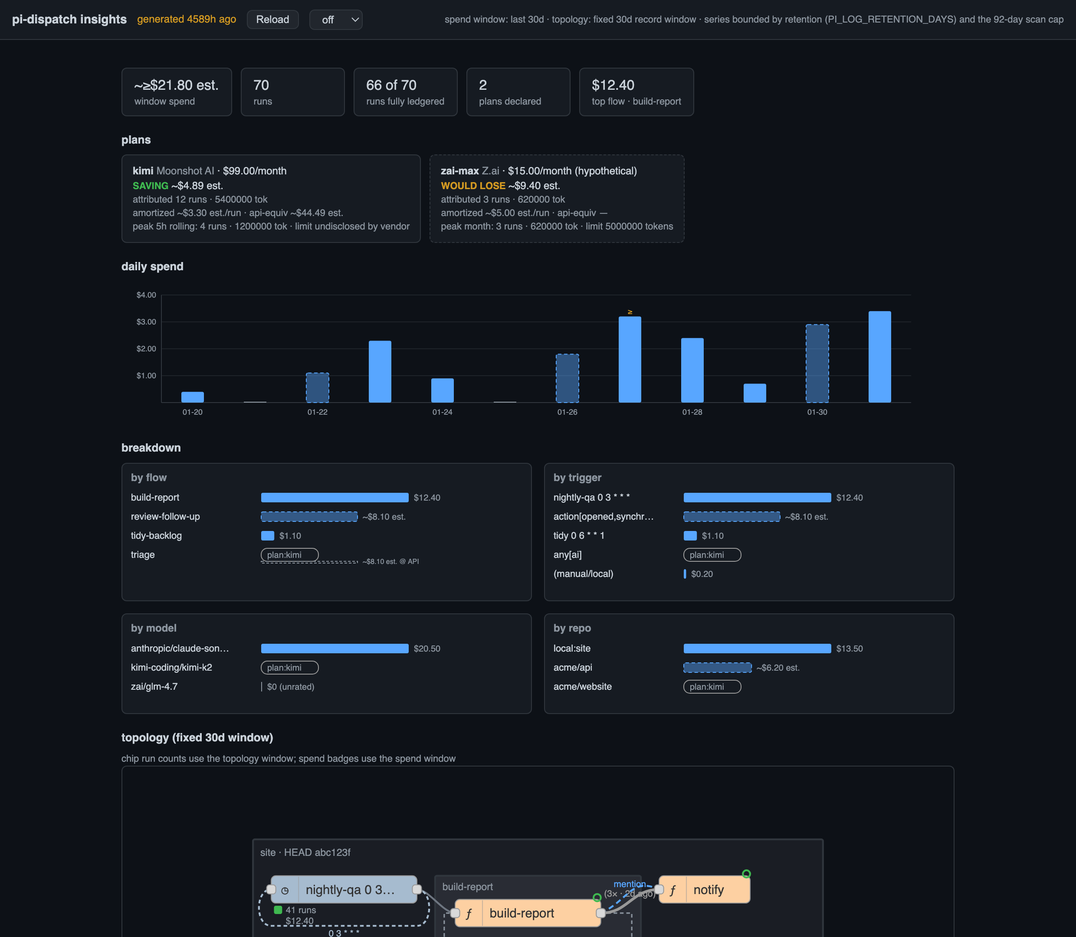
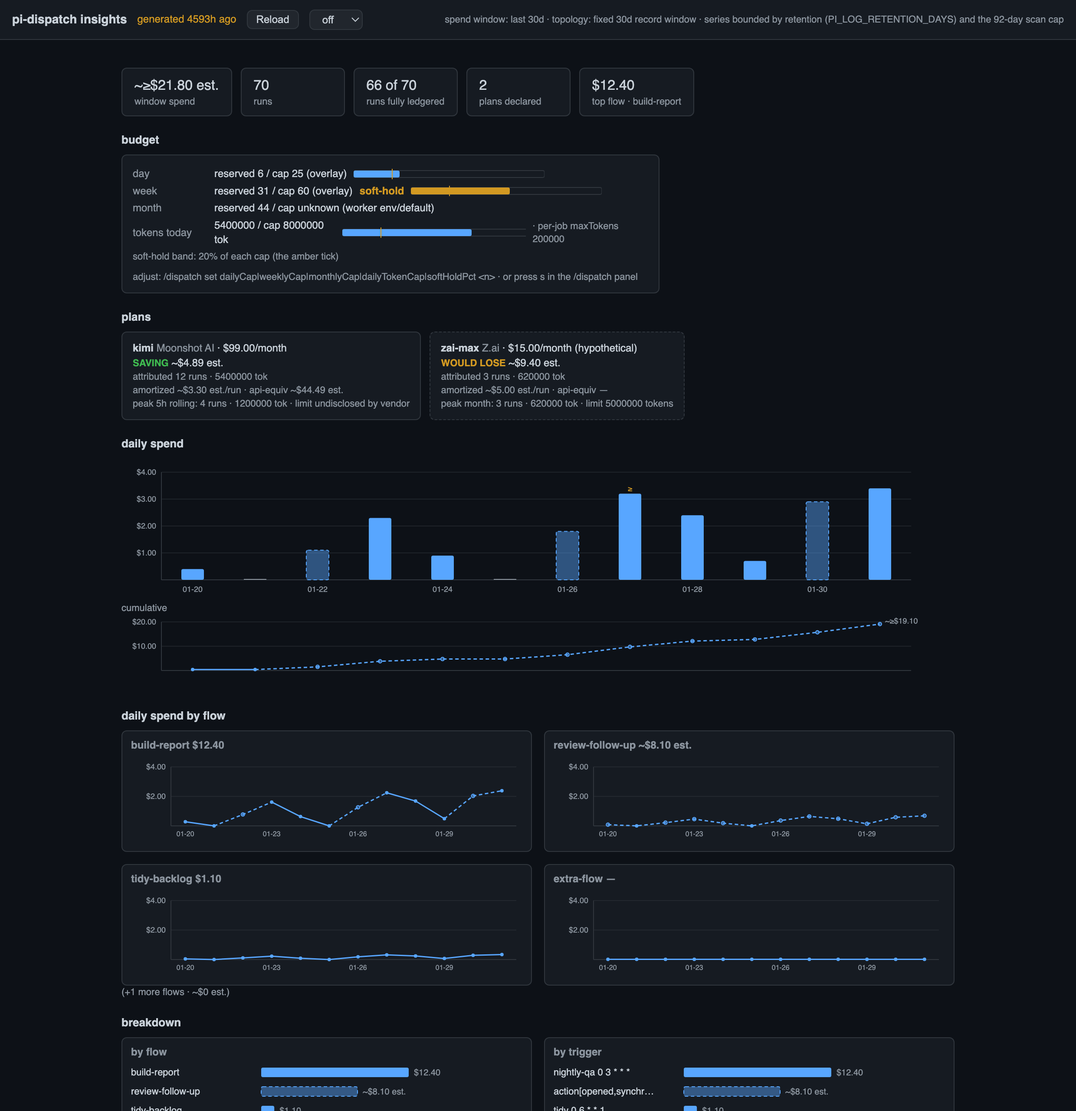
docs: one analytics story, and the images catch up with the consolidated surface (issue #181)
The last slice of #181: every doc and both READMEs now describe the
one analytics surface.

- docs/costs.md and docs/graph.md lose their view/command sections and
  survive as the semantics references behind what the insights page
  draws; docs/insights.md speaks the bare grammar, gains the budget
  and trend-line reading bullets, and points the what-if at
  insights whatif; demo.md's shot list gains the i beat and the exact
  new footer; workflows.md and launch-kit.md updated.
- README.md: the intro bullet, the when-to-use paragraph (bare
  /dispatch insights, budget dials named as the one real lever), the
  admin-panel section rewritten around the i key and the page, the
  command list, and the usage-ledger sentence. admin/README.md: the
  three analytics bullets merge into one insights story. Dash rule
  holds in both.
- Images: costs-view.svg/png DELETED (the view is gone);
  dispatch-dashboard.svg's footer line rewritten to the shipped
  footer (i insights; row width preserved at 80 chars inside borders)
  and its PNG re-rendered at the exact prior 1803x1811;
  insights-view.png regenerated from the page WITH the budget panel,
  cumulative line and flow multiples; graph-view.png kept byte-
  unchanged as the topology close-up. Changed references bump to
  ?v=0.12.0.

Specs UNCHANGED, checked: this slice states what the code slices
shipped and changes no behaviour.

Suite green in the CI posture: 2192 tests, 0 skipped, live Valkey.

diff --git a/README.md b/README.md
@@ -13,9 +13,7 @@ did and what it spent, and shuts the container down. A durable queue absorbs bur
 checked before a single token is spent, and a live admin panel shows everything and can turn the whole
 thing off.
 
-![The /dispatch dashboard overlay, theme-colored: live queue state, day/week/month spend meters plus a daily token counter, the unified triggers pane (cron, label, comment, pull_request; selectable and editable), scheduled pause windows, and the interactive runs list, in one framed TUI](docs/images/dispatch-dashboard.svg?v=0.5.0)
-
-![The COSTS view, verdict-first cost analytics: per-plan SAVING/LOSING verdicts against API rates, a daily spend sparkline, per-flow, per-trigger, per-model and per-repo spend, subscription amortization with peak-window facts, and a what-if that re-prices a flow under another model, every estimate visibly marked](docs/images/costs-view.svg?v=0.11.0)
+![The /dispatch dashboard overlay, theme-colored: live queue state, day/week/month spend meters plus a daily token counter, the unified triggers pane (cron, label, comment, pull_request; selectable and editable), scheduled pause windows, and the interactive runs list, in one framed TUI](docs/images/dispatch-dashboard.svg?v=0.12.0)
 
 ![Transcript of /dispatch status, runs, and triggers: queue counts, the run-history table with per-job token and cost accounting, and the unified {on,run} triggers list](docs/images/dispatch-commands.svg?v=0.5.0)
 
@@ -25,9 +23,9 @@ README, no permission system. pi-dispatch is exactly that missing operational la
 - **The container is the boundary.** Every job runs `--cap-drop=ALL`, non-root, ephemeral, with its
   instructions mounted read-only. That is pi's missing permission system, enforced by Docker.
 - **Spend is bounded before a container starts**: a per-job turn budget plus daily, weekly and monthly
-  caps, checked before a single token is spent. And analyzed after: the panel's COSTS view shows spend
-  per flow, trigger, model, day and repo, what a subscription actually saves, and what a flow would
-  cost on another model ([`docs/costs.md`](docs/costs.md)).
+  caps, checked before a single token is spent. And analyzed after: the insights page shows spend
+  per flow, trigger, model, day and repo, what a subscription actually saves, what a flow would
+  cost on another model, and the budget dials themselves ([`docs/costs.md`](docs/costs.md)).
 - **The image is yours to shape.** Bake a project's toolchain into [`image/Dockerfile`](image/Dockerfile);
   it ships Playwright and Chromium, so a flow can build a frontend, screenshot it, and iterate on the
   rendered result. Any trigger can name its own image with `run.image`
@@ -55,10 +53,11 @@ here it is just how the pieces fit). You **design** loops as triggers plus commi
 **graph** shows the loops you actually built (what triggers what, what chained to what, where a skill's
 own text says it might loop, [`docs/graph.md`](docs/graph.md)); and **insights** prices them (what each
 trigger and flow costs, whether a subscription pays off, drawn as charts beside that same topology,
-[`docs/insights.md`](docs/insights.md)). One `/dispatch insights html` gives you the whole picture as a
-single file your browser opens from disk:
+[`docs/insights.md`](docs/insights.md)). One `/dispatch insights` gives you the whole picture as a
+single file your browser opens from disk, budget dials included, because the caps are the one lever
+that actually changes what all of this costs:
 
-![The insights page: KPI tiles, a plan verdict card, the daily spend chart, per-flow/per-trigger/per-model/per-repo breakdowns with plan-covered buckets drawn as chips instead of dollar bars, and the trigger/flow topology with spend badged onto the triggers that earned it](docs/images/insights-view.png?v=0.11.0)
+![The insights page: KPI tiles, the budget dials, a plan verdict card, the daily and cumulative spend charts, per-flow trend panels, the four breakdowns with plan-covered buckets drawn as chips instead of dollar bars, and the trigger/flow topology with spend badged onto the triggers that earned it](docs/images/insights-view.png?v=0.12.0)
 
 ## Quickstart
 
@@ -407,16 +406,15 @@ Steer the running worker without stopping it, from any terminal:
 ## The admin panel
 
 The dashboard shown at the top of this README is a **pi extension**: it loads into your own interactive
-pi session. No daemon, no web app, no network port. Beside the dashboard, `/dispatch graph` renders the
-whole trigger and flow topology: what triggers what, what chained to what in the recorded runs, what a
-skill's own text says it might chain to, plus orphan skills and dangling triggers. It comes as a
-dashboard view (`g`), as plain text, and as `/dispatch graph html`, a self contained page your browser
-opens from disk (still no server and no port) with the topology drawn Node-RED style
-([`docs/graph.md`](docs/graph.md)). Trigger rows carry their schedule (next fire, or overdue) and
-their window spend, and `/dispatch insights html` combines this topology with the cost analytics on
-one page ([`docs/insights.md`](docs/insights.md), shown [above](#when-to-use-it)).
+pi session. No daemon, no web app, no network port. Analytics live on the insights page: pressing `i`
+(or typing `/dispatch insights`) writes one self contained file and opens your browser (still no
+server and no port), with the whole trigger and flow topology drawn Node-RED style, what triggers
+what, what chained to what in the recorded runs, what a skill's own text says it might chain to,
+orphan skills and dangling triggers flagged, each cron's next fire or overdue state, and spend badged
+onto the triggers that earned it ([`docs/graph.md`](docs/graph.md) explains every edge;
+[`docs/insights.md`](docs/insights.md) the page, shown [above](#when-to-use-it)).
 
-![The trigger and flow graph as /dispatch graph html draws it: cron and forge triggers wired to their flows, an observed chain edge carrying its run count and recency, a potential mention, a skill with its prose loop grouped inside it, cron re-arm loops with their schedules, an orphan skill dimmed, the forge group naming the repos its runs hit, and the legend stating the chain caps and honesty counters](docs/images/graph-view.png?v=0.11.0)
+![The topology pane of the insights page: cron and forge triggers wired to their flows, an observed chain edge carrying its run count and recency, a potential mention, a skill with its prose loop grouped inside it, cron re-arm loops with their schedules, an orphan skill dimmed, the forge group naming the repos its runs hit, and the legend stating the chain caps and honesty counters](docs/images/graph-view.png?v=0.12.0)
 
 ```bash
 pi install npm:@edgehero/pi-dispatch-admin   # then, in pi:  /dispatch
@@ -436,13 +434,13 @@ banner: setup is offered when there is nothing, never over an outage.
 
 Inside the panel: `p`/`r` pause and resume the queue, arrows and `Enter` drill into triggers and runs,
 `a`/`e`/`x` add, edit and delete triggers (validated, atomic, reloaded live by both services), `s` edits
-a limit, `w` manages quiet hours, `c` opens the COSTS view (its `f` key cycles spend by flow, model,
-trigger and repo). `Enter` on a run opens its full record:
+a limit, `w` manages quiet hours, `i` opens the insights page. `Enter` on a run opens its full
+record:
 
 ![The RUN_DETAIL drill-in, a colored post-mortem of one run's PII-free record: outcome, target, timing with duration, turns/exit/budget slot, tokens and cost, and a chain line naming spawned children](docs/images/dispatch-run-detail.svg)
 
-The same surface exists as plain commands (`/dispatch status | runs | logs | budget | triggers | costs |
-graph | insights | run | pause | resume | set | unset`), all local, no model involvement.
+The same surface exists as plain commands (`/dispatch status | runs | logs | budget | triggers |
+insights | run | pause | resume | set | unset`), all local, no model involvement.
 
 ### Operating pi-dispatch from your AI
 
@@ -525,7 +523,7 @@ Same machinery, per-forge correctness differences, each with a full setup doc:
 
 Every job writes a durable, id-only record under `PI_LOGS_DIR` (never issue or comment text; raw logs
 are opt-in via `PI_CAPTURE_JOB_LOGS=1` and stay host-side). Each record carries a per-model **usage
-ledger**, which is what the COSTS view, `/dispatch costs`, and the what-if re-pricing fold over. Declare
+ledger**, which is what the insights page, `dispatch_costs`, and the what-if re-pricing fold over. Declare
 what your subscriptions cost in `subscriptions.json` and the screen shows whether they actually save
 money; without it, zero-rate runs show `$0 (unrated)`, never "free" ([`docs/costs.md`](docs/costs.md)).
 

diff --git a/docs/graph.md b/docs/graph.md
@@ -6,56 +6,22 @@ serviced repo's `.pi/skills/` tree holds what exists and what opts into being ch
 surface assembles that topology in one place (`REQ-TOPOLOGY-GRAPH`, `DES-GRAPH-EDGE-DERIVATION`). It
 informs; it changes nothing — no port, no database, no new dependency.
 
-## The GRAPH view
+## Where it renders
 
-Press `g` on the dashboard (`/dispatch`). The view is a folder-grouped tree: each group header folds
-with `↵`, trigger rows carry their joined run stats on the right, skill rows carry their badges, and
-a skill's outgoing edges render as indented annotation rows labelled by evidence class. `↵` on a
-trigger row opens the same trigger detail the LIST offers. `r` refreshes the model — the only
-re-read besides entry, because assembling the graph enumerates each folder's committed skills with
-git, and topology changes when you edit things, not per second. `Esc` returns to the LIST.
+![The topology pane: triggers wired to their flows Node-RED style, an observed chain edge with its count and recency, a potential mention, cron re-arm loops, an orphan skill dimmed, and the legend](images/graph-view.png?v=0.12.0)
 
-## `/dispatch graph html`: the browser view
+The topology is the lower half of the **insights page** ([`insights.md`](insights.md)):
+`/dispatch insights` writes one self-contained HTML file and opens your browser, and the topology
+renders there as a Node-RED-style diagram — trigger nodes wired to their flows, observed chain edges
+with their counts and recency, potential (mentioned) edges dashed, folders as group boxes, orphans
+dimmed and dashed, dangling triggers flagged, spend badged onto the triggers that earned it. Pan by
+dragging, zoom with the wheel, hover a node for its details (a cron's tip counts down to its next
+fire, or says how overdue it is), click one to highlight what it triggers and what reaches it. The
+page is a snapshot with its own refresh loop, overwritten atomically at a stable path, so the
+workflow is: keep the tab open, re-run `/dispatch insights` after editing triggers or skills, and
+the tab picks up the new topology within the auto-reload interval.
 
-![The graph page: triggers wired to their flows Node-RED style, an observed chain edge with its count, a potential mention, cron re-arm loops, an orphan skill dimmed, and the legend](images/graph-view.png?v=0.9.1)
-
-`/dispatch graph html` renders the same model as a Node-RED-style diagram: trigger nodes wired to
-their flows, observed chain edges with their counts, potential (mentioned) edges dashed, folders as
-group boxes, orphans dimmed and dashed, dangling triggers flagged. It writes **one self-contained
-HTML file** (inline SVG/CSS/JS, no network requests of any kind) to a stable temp path
-(`PI_GRAPH_DIR` override) and opens your browser; the `file://` URL is always printed first, so over
-SSH you copy the file instead (`--no-open` skips the browser unconditionally).
-
-The page is a snapshot with its own refresh loop: a Reload button, an auto-reload toggle (off, 5s,
-30s) and a "generated N ago" stamp. Because the command overwrites the **same file atomically**,
-the workflow is: keep the tab open, re-run `/dispatch graph html` after editing triggers or skills,
-and the tab picks up the new topology within the auto-reload interval — pan/zoom and selection
-survive the reload. Pan by dragging, zoom with the wheel, hover a node for its details, click one to
-highlight what it triggers and what reaches it.
-
-`/dispatch insights html` writes a sibling artifact to the same directory: the same topology with
-spend badged onto its triggers, beside the cost analytics drawn as charts ([`insights.md`](insights.md)).
-`graph html` stays the lighter topology-only export (no subscriptions read, no second scan).
-
-## `/dispatch graph`
-
-```
-Graph: triggers and flows
-
-folder /srv/site, HEAD abc1234
-  cron nightly 0 3 * * * -> build-report  (runs 41, last completed, next 4h, spend ~$4.05 est.)
-  skill build-report  [chainable]
-    -> notify  observed x3
-  skill notify  [chainable] [AI-reachable, no trigger]
-  skill old-import  [orphan: no trigger, no ai-trigger, no mention]
-
-forge github (skills unverifiable from the admin host)
-  label any[ai] -> triage  (runs 12, last completed)
-
-2 runs unattributed (triggers file changed since they ran, or they predate attribution)
-edges: -> configured, observed xN (from records), mention (potential; a mention is not a promise)
-caps: chain depth <= 1, <= 2 per job, same folder only, window 30d
-```
+This document explains the semantics behind what that pane draws.
 
 ## How to read an edge
 
@@ -85,9 +51,8 @@ There is no structured loop construct anywhere in this system: a "loop inside a 
 in `SKILL.md` telling the agent to iterate ("iterate until it renders right", "for each page…").
 The graph scans each skill's body for that vocabulary and shows what it finds **inside the skill's
 own node**, because everything a loop does happens inside that one job, one container, one budget
-slot. In the browser view a skill with loop hints becomes a group box: the skill chip, a `⟳` marker
-per detected phrase, and the loop wire, all visibly contained in the skill. In the TUI and text
-views the hints ride the skill's row as `[loop: "…"]` badges. Like potential edges, a hint is text
+slot. A skill with loop hints becomes a group box: the skill chip, a `⟳` marker
+per detected phrase, and the loop wire, all visibly contained in the skill. Like potential edges, a hint is text
 evidence, not a promise; the frontmatter is excluded from the scan so a `description: repeat daily`
 never reads as a loop. The other two loop shapes have their own visuals: a cron trigger's re-arm is
 the dashed self-loop labelled with its schedule, and a flow that chained to itself shows as an
@@ -95,9 +60,9 @@ observed self-edge with its count.
 
 ## Which repos and folders
 
-A local folder group is headed by its `run.folder` (the TUI and `/dispatch graph` show the full
-path; the HTML artifact shows the basename unless you pass `--full-paths`, since the file is durable
-and shareable while your terminal is not). A forge group's triggers name no repository in
+A local folder group is headed by its `run.folder`, shown as a basename unless you pass
+`--full-paths` — the file is durable and shareable, and full host paths are the operator's explicit
+opt-in. A forge group's triggers name no repository in
 `triggers.json` (routing belongs to the forge app installation), so the group instead lists the
 repositories its **recorded runs** actually hit in the window, labelled as record-derived: history
 answering a question configuration cannot.

diff --git a/docs/costs.md b/docs/costs.md
@@ -1,41 +1,24 @@
 # Cost analytics
 
 Every run records what it spent (`docs`: run history; `specs`: `REQ-TOKEN-ACCOUNTING-AND-CAPS`). The
-costs surface makes that history analyzable: what a flow costs, what a month costs per model, what a
+cost analytics make that history analyzable: what a flow costs, what a month costs per model, what a
 subscription is actually saving, and what a flow *would* cost on a different model. It informs; it
 changes nothing — no auto-switching, no vendor API calls, no database (`REQ-COST-ANALYTICS`,
 `DES-COST-FOLD-BY-SCAN`).
 
-## The COSTS view
+The surface is the **insights page** ([`insights.md`](insights.md)): `/dispatch insights` writes and
+opens one self-contained file with the plan verdicts, the daily and cumulative spend charts, the
+per-flow trend panels, and the four breakdowns (by flow, by trigger, by model, by repo) — beside the
+trigger/flow topology those numbers come from. This document explains the semantics behind every
+dollar that page draws.
 
-Press `c` on the dashboard (`/dispatch`). The view is verdict-first:
-
-```
-┌ pi-dispatch ── COSTS · Aug 2026 (mtd) ──────────────────────────────────────────┐
-│ VERDICT  kimi-allegro is SAVING ~$4.89 est. this month                          │
-│   plan price (prorated) $99.00 → $39.60 · plan runs @ API ~$44.49 est.          │
-│ daily  ▁▁▂▃▂▅▇▃▂▁·▁▂▂▃█▄▂▁▁▂▃▂▁▁▂▄▃▂▁  Σ ≥$12.41 · max $3.10/d                  │
-│   FLOW              RUNS  TOKENS  COST           API-EQUIV                      │
-│ › triage             41   12.4M  ≥$8.02         —                               │
-│   nightly-sync       28    6.1M  plan:kimi      ~$3.90 est.                     │
-│ plans   kimi-allegro $99/mo · 28 runs · ~$3.54 est./run amortized               │
-│         peak 5h rolling window: 9 runs, 12.4M tok — limit undisclosed by vendor │
-│ ~ estimates at pi-ai 0.80.7 · 2 runs unmetered · 3 not repriceable              │
-│ [↑↓] row [f] table [t] 7d/30d/mtd [w] what-if [esc] back                        │
-└─────────────────────────────────────────────────────────────────────────────────┘
-```
-
-Keys: `t` cycles the window (7d / 30d / month-to-date), `f` cycles the rollup table (by flow, by
-model, by trigger, by repo), `w` opens the what-if on the selected flow (press again to cycle
-candidate models; `/` type-to-filters the full priced catalog), `Esc` backs out one layer at a time.
-
-The **by-trigger** table answers "which trigger burns the most" and "what did its failures cost":
-each row is a `triggers.json` entry (attributed by the same persisted index-and-type join the graph
-view uses), with a FAIL count and, when failures spent anything, the failed share beside the total.
-Runs no trigger claims stay visible as their own rows, never blended in: `(chained runs)` for
-children spawned by another run, `(manual/local)` for CLI dispatches, `(unattributed)` for forge runs
-whose recorded trigger no longer matches the current file. The **by-repo** table groups spend by the
-target repository (issue and MR numbers stripped), with `local:<folder>` targets as their own rows.
+The **by-trigger** breakdown answers "which trigger burns the most" and "what did its failures
+cost": each row is a `triggers.json` entry (attributed by the persisted index-and-type join the
+topology uses). Runs no trigger claims stay visible as their own rows, never blended in:
+`(chained runs)` for children spawned by another run, `(manual/local)` for CLI dispatches,
+`(unattributed)` for forge runs whose recorded trigger no longer matches the current file. The
+**by-repo** breakdown groups spend by the target repository (issue and MR numbers stripped), with
+`local:<folder>` targets as their own rows.
 
 ## How to read the numbers
 
@@ -100,17 +83,17 @@ second caveat too: same token profile, different tokenizers — directional only
 history gets one offer: the `$0.5–$5/job` band recorded at `OQ-002`, scaled by the flow's run count and
 labeled `unmeasured (OQ-002)`.
 
-## Without the TUI
+## The surfaces
 
-- `/dispatch insights html` — the browser surface: the same fold drawn as charts (daily spend,
-  the four breakdowns, plan verdict cards) beside the trigger/flow topology, in one self-contained
-  file ([`insights.md`](insights.md)).
-- `/dispatch costs [7d|30d|mtd]` — the same fold, plain text, same labels.
-- `/dispatch costs whatif <provider>/<model> --flow <flow>` — scripting-friendly what-if; unknown
-  models get closest-match suggestions (this is the full-catalog path). `--flow` is **required**: the
-  estimate scores one flow's median run, not a portfolio, so the command refuses without it.
+- `/dispatch insights [7d|30d|mtd]` — the page: the fold drawn as charts beside the trigger/flow
+  topology, in one self-contained file your browser opens from disk ([`insights.md`](insights.md)).
+  Over SSH the file still writes and its URL still prints.
+- `/dispatch insights whatif <provider>/<model> --flow <flow>` — the what-if: re-prices a flow's
+  recorded token profiles under another model. Unknown models get closest-match suggestions, and
+  tab completion offers the full priced catalog. `--flow` is **required**: the estimate scores one
+  flow's median run, not a portfolio, so the command refuses without it.
 - The `dispatch_costs` tool returns the fold as JSON in which **every monetary value carries its
-  `class`** — a model reading it can no more launder an estimate into a fact than the screen can.
+  `class`** — a model reading it can no more launder an estimate into a fact than the page can.
 
 ## Environment
 

diff --git a/admin/README.md b/admin/README.md
@@ -55,26 +55,14 @@ Four forges: GitHub, GitLab, Forgejo (and Gitea), Azure DevOps. **Who may fire a
 One command puts a live TUI over the whole deployment:
 
 <p align="center">
-  <img src="https://raw.githubusercontent.com/edgehero/pi-dispatch/main/docs/images/dispatch-dashboard.png?v=0.5.0" alt="The /dispatch panel: status, spend meters, triggers, runs, and settings" width="820">
+  <img src="https://raw.githubusercontent.com/edgehero/pi-dispatch/main/docs/images/dispatch-dashboard.png?v=0.12.0" alt="The /dispatch panel: status, spend meters, triggers, runs, and settings" width="820">
 </p>
 
 - **Status and spend.** Queue and worker state, day/week/month spend meters, a daily token counter, and a run-history table with per-job tokens and cost.
-- **Costs, analyzed honestly.** The COSTS view (`c`) shows spend per flow, model, trigger, repo and day, what each declared subscription actually saves against API rates, and a what-if that re-prices a flow under another model. Every dollar carries its class: a plan-covered run never renders as $0.00, and an estimate is always marked as one.
+- **Insights, the one analytics page.** Press `i` on the panel (or type `/dispatch insights`) and a single self contained page opens in your browser: the budget dials (the one lever that actually changes what all of this costs), per-plan verdicts against API rates, daily, cumulative and per-flow spend charts, the four breakdowns (flow, trigger, model, repo), and the whole trigger and flow topology with spend badged onto the triggers that earned it. Every dollar carries its class: a plan-covered run never renders as $0.00, and an estimate is always marked as one. Design your agent loops as triggers and skills, see the loops you actually built, and see what each one costs, all in one place ([`docs/insights.md`](https://github.com/edgehero/pi-dispatch/blob/main/docs/insights.md)).
 
 <p align="center">
-  <img src="https://raw.githubusercontent.com/edgehero/pi-dispatch/main/docs/images/costs-view.png?v=0.11.0" alt="The COSTS view: per-plan verdicts against API rates, a daily spend sparkline, spend by flow, trigger, model and repo, and subscription amortization" width="820">
-</p>
-
-- **The topology, as a graph.** The GRAPH view (`g`) and `/dispatch graph` show what triggers what, what chained to what in the recorded runs, and what a skill's own text says it might chain to, with orphan skills and dangling triggers flagged, each cron's next fire or overdue state, and each trigger's window spend. `/dispatch graph html` draws the same picture Node-RED style in your browser, from one self contained file on disk: no server, no port, and the page reloads itself when you regenerate it.
-
-<p align="center">
-  <img src="https://raw.githubusercontent.com/edgehero/pi-dispatch/main/docs/images/graph-view.png?v=0.11.0" alt="The trigger and flow graph: triggers wired to their flows, an observed chain edge with its count and recency, a potential mention, a skill with its prose loop grouped inside it, cron re-arm loops, an orphan skill dimmed, the forge group naming the repos its runs hit, and the legend stating the chain caps and honesty counters" width="820">
-</p>
-
-- **One page for both questions.** `/dispatch insights html` writes a single self contained page: the topology with spend badged onto its triggers, beside the cost analytics drawn as charts (daily spend, the four breakdowns, plan verdict cards). Design your agent loops as triggers and skills, see the loops you actually built, and see what each one costs, all in one place ([`docs/insights.md`](https://github.com/edgehero/pi-dispatch/blob/main/docs/insights.md)).
-
-<p align="center">
-  <img src="https://raw.githubusercontent.com/edgehero/pi-dispatch/main/docs/images/insights-view.png?v=0.11.0" alt="The insights page: KPI tiles, a plan verdict card, the daily spend chart, the four breakdowns with plan-covered buckets drawn as chips instead of dollar bars, and the topology with spend badges" width="820">
+  <img src="https://raw.githubusercontent.com/edgehero/pi-dispatch/main/docs/images/insights-view.png?v=0.12.0" alt="The insights page: KPI tiles, a plan verdict card, the daily spend chart, the four breakdowns with plan-covered buckets drawn as chips instead of dollar bars, and the topology with spend badges" width="820">
 </p>
 
 - **Triggers, editable live.** cron, label, comment and pull_request triggers with colored drill-ins showing what fires each one, what it runs, and its trust model. Added, edited and deleted without a restart. Triggers that run third-party code or a custom image are badged; opting in or out of either stays an edit to the reviewed `triggers.json`, which neither the console nor a model-callable tool will make for you.

diff --git a/docs/insights.md b/docs/insights.md
@@ -7,11 +7,12 @@ fastest next to the topology those numbers came from — spend per day, per flow
 model, per repo, plan verdicts, and the graph with spend badged onto the triggers that earned it.
 
 ```
-/dispatch insights html [7d|30d|mtd] [--no-open] [--full-paths]
+/dispatch insights [7d|30d|mtd] [--no-open] [--full-paths]
 ```
 
 writes **one self-contained HTML file** to `<graph dir>/insights.html` (the same directory
-`graph html` uses, `PI_GRAPH_DIR`), prints its `file://` URL, and opens your browser. No server, no
+`PI_GRAPH_DIR` names, defaulting under the OS temp dir), prints its `file://` URL, and opens your
+browser. No server, no
 port, no external requests: the page is inline SVG/CSS/JS and works from the file system, over
 `scp`, or attached to a ticket. Re-running the command overwrites the same path atomically, so a
 tab you keep open picks the new fold up through its Reload/auto-reload controls.
@@ -27,10 +28,18 @@ tab you keep open picks the new fold up through its Reload/auto-reload controls.
   burn-down. No counterfactual declared reads exactly that.
 - **Daily spend**: a column per UTC day. Quiet days render as quiet baseline ticks, never compressed
   away. A dashed, translucent column is an estimate; a `≥` marks a floor.
-- **Breakdowns**: by flow, by trigger, by model, by repo — the same four tables the COSTS view
-  cycles, drawn as bars. Clicking a trigger row highlights its node in the topology below.
-- **Topology**: the same graph `graph html` exports, pan/zoom/hover and all, with one addition: a
-  spend badge under every trigger that spent in the window.
+- **Budget**: the operator's one real lever on cost, beside the spend it limits — reserved vs cap
+  for the day/week/month job-slot windows and the daily token counter, states as words
+  (`soft-hold`, `over`), an overlay-unset cap shown as unknown or off with no bar and no invented
+  denominator, and the lever named (`/dispatch set …`, the panel's `s` key).
+- **Trend lines**: a cumulative window-spend line under the daily columns (dashed from the first
+  estimated day onward — once an estimate enters a running total it never leaves), and per-flow
+  daily spend as small panels on one shared scale, dashed wherever an estimated day touches.
+- **Breakdowns**: spend by flow, by trigger, by model, by repo, drawn as bars. Clicking a trigger
+  row highlights its node in the topology below.
+- **Topology**: the trigger/flow graph, pan/zoom/hover and all ([`graph.md`](graph.md) explains
+  every edge and badge), with spend badged under every trigger that spent in the window and each
+  cron's next fire or overdue state in its tip.
 - **Footer**: the provenance ledger — which pi-ai priced the numbers, what was unmetered,
   unledgered, truncated, or drifted — plus the graph's own honesty counters in the legend.
 
@@ -64,5 +73,5 @@ always printed first. `scp` the file to your desktop and open it there.
   control re-reads the file so an open tab follows your re-runs.
 - Everything the [`costs.md`](costs.md) honest-limits section says holds here too: totals are
   floors, pre-ledger runs are counted rather than guessed at, and history is never re-priced.
-- The what-if stays in the terminal (`/dispatch costs whatif`, or `w` in the COSTS view): an
-  interactive estimate belongs where the full priced catalog is one keystroke away.
+- The what-if is the `/dispatch insights whatif <provider/model> --flow <flow>` command: an
+  estimate wants the full priced catalog, and tab completion offers it.

diff --git a/docs/demo.md b/docs/demo.md
@@ -12,15 +12,16 @@ recipe; it needs a real terminal, so it's yours to run (the panel can't be drive
    `pi -e admin/src/index.ts`; the published extension's entry point is its built `./dist/index.mjs`.)
 2. `↵` on a trigger → the MATCHES / RUNS / TRUST MODEL drill-in.
 3. `↵` on a run → the colored post-mortem.
-4. `c` → the COSTS view: the verdict line, the daily sparkline, the by-flow table, `t` to cycle
-   7d / 30d / mtd, `w` for the what-if on the selected flow. `Esc` backs out.
+4. `i` → the insights page opens in the browser: the budget lever, the plan verdicts, the spend
+   charts and the topology, one page. (In a pure-terminal recording, skip this beat or show the
+   printed `file://` URL instead.)
 5. (optional) `w` on the dashboard → the pause-window dialogs: a three-way select (add / edit / delete a
    pause window), then seven prompts for an add. Watch a PAUSE WINDOWS row flip to
    `● paused · resumes in …`.
 6. `q` to close.
 
 The footer is the shot list, in order:
-`↑↓↵ open · a add · w pauses · l logs · c costs · p pause · r resume · q quit`
+`↑↓ open · a add · w pauses · l logs · i insights · p/r pause · q quit`
 
 If the recording is for **onboarding** rather than for the README, lead with `/dispatch setup` instead: the
 guided wizard is the front door now, and a panel that opens already configured is the payoff shot.
@@ -53,7 +54,7 @@ Type "/dispatch"  Enter
 Sleep 3s
 Enter  Sleep 3s   Escape Sleep 1s                      # a trigger drill-in (selection starts on trigger 1)
 Tab  Sleep 500ms  Enter  Sleep 3s  Escape Sleep 1s     # a run post-mortem (Tab jumps triggers <-> runs)
-Type "c"  Sleep 3s  Type "t"  Sleep 2s  Escape Sleep 1s   # the COSTS view, one window flip
+Type "i"  Sleep 4s                                        # the insights page opens (browser beat)
 Type "q"
 Sleep 1s
 ```

diff --git a/docs/launch-kit.md b/docs/launch-kit.md
@@ -262,7 +262,7 @@ Working title: **"Giving a coding agent an off-switch: containers, spend caps, a
 
 <!--
 TEMPLATE, NOT the current release. This block is v0.2.0-era copy and its feature list predates the GitLab,
-Forgejo and Azure DevOps arms, the resurrectable sandbox, run.replicas, resumable sessions, the COSTS view,
+Forgejo and Azure DevOps arms, the resurrectable sandbox, run.replicas, resumable sessions, the cost analytics,
 the setup wizard, polling mode and `setup github`. Re-cut it per release against that release's own changes,
 keeping the shape (Admin / AI-operable / feature area / Docs & safety / the maturity footer) and nothing
 else. Versions at the time of writing: root 0.8.0, @edgehero/pi-dispatch 0.1.2,

diff --git a/docs/workflows.md b/docs/workflows.md
@@ -227,7 +227,7 @@ Two supported ways to continue work **across** jobs:
   no store is configured. Read [`sessions.md`](sessions.md) first.
 - **Job chaining** through `/outbox`: a finished job may request a follow-up job. It is **local jobs only**
   (a forge parent gets no `/outbox` mount), depth-bounded, and gated on the target flow carrying
-  `ai-trigger: allow`. `/dispatch graph` shows the whole picture: configured trigger edges, observed
+  `ai-trigger: allow`. `/dispatch insights` shows the whole picture: configured trigger edges, observed
   chain edges from the run records, and potential ones a skill's text names ([`graph.md`](graph.md)).
 
 ## What is not supported
